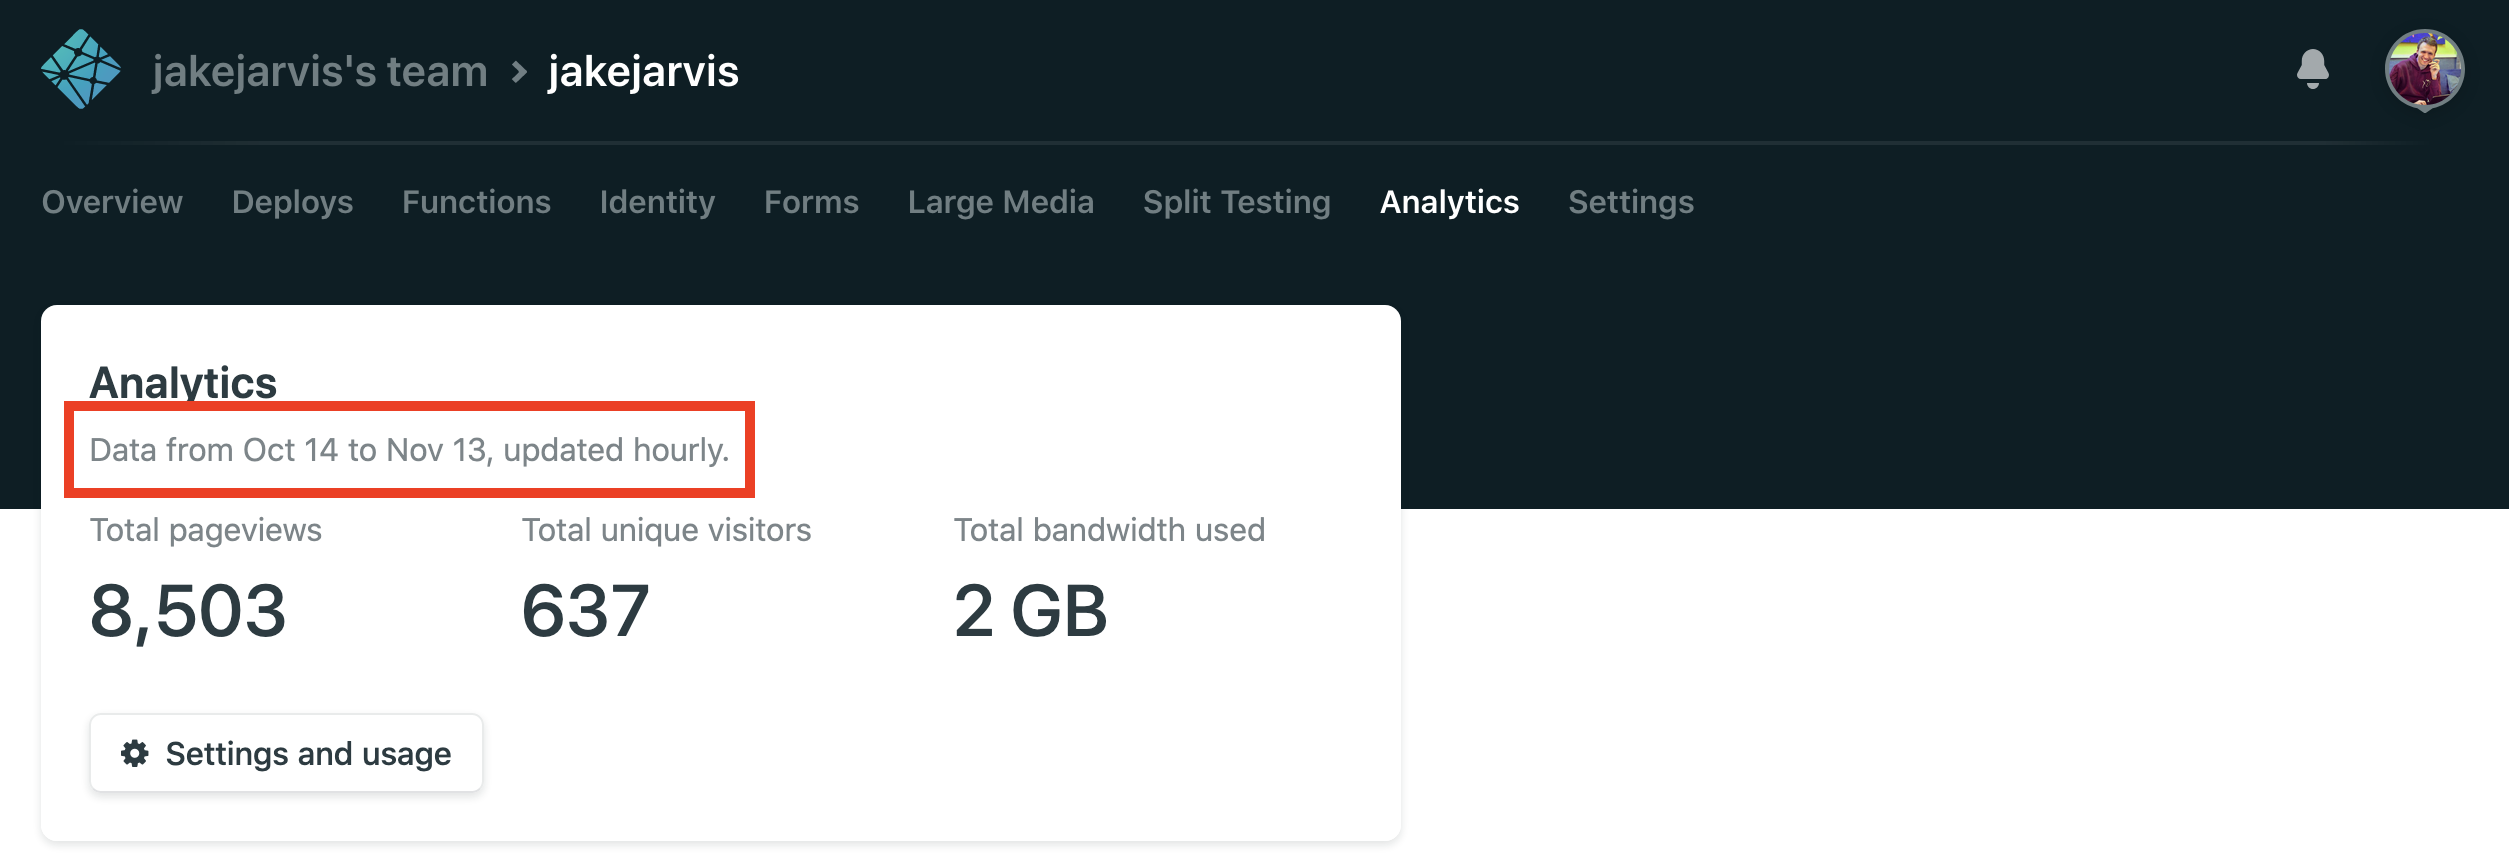
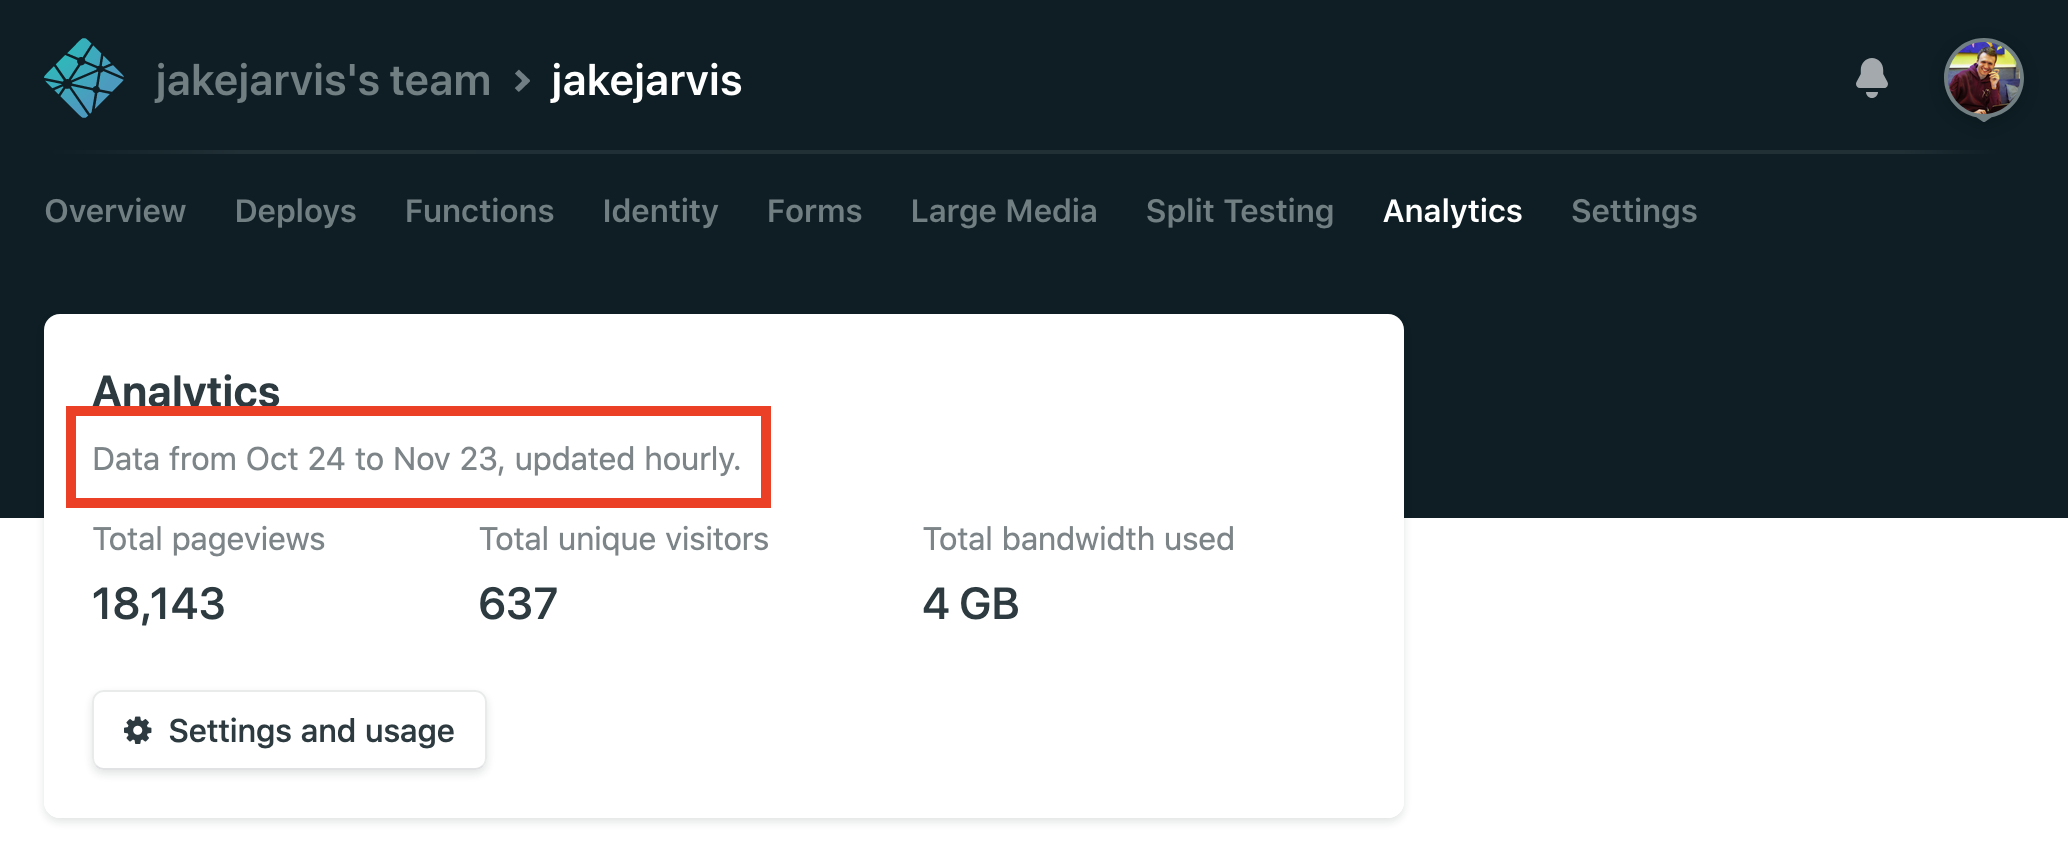
update Netlify Analytics post

diff --git a/content/notes/netlify-analytics-review/index.md b/content/notes/netlify-analytics-review/index.md
@@ -9,12 +9,12 @@ tags:
 - Netlify
 - Privacy
 - JAMStack
-image: "pageviews.png"
+image: "overview.png"
 draft: false
 ---
 
 
-I've been trying out [Netlify Analytics](https://www.netlify.com/products/analytics/) on this site for about ten days now (non-consecutively) and have some quick thoughts about this unique offering in a world full of bloated and invasive tracking scripts.
+I've been trying out [Netlify Analytics](https://www.netlify.com/products/analytics/) on this site for almost a month now (non-consecutively) and have some quick thoughts about this unique offering in a world full of bloated and invasive tracking scripts.
 
 {{< image src="images/pageviews.png" alt="Pageview charts on Netlify Analytics" >}}
 
@@ -74,7 +74,7 @@ It makes sense that Netlify needs to subsidize the cost of providing free enterp
 
 {{< image src="images/sources-bandwidth.png" alt="Referrer and bandwidth tracking on Netlify Analytics" >}}
 
-Clearly, as much as I wish they did, 30,000+ visitors didn't type my website directly into the URL bar in the past week. Some of my articles have been circulating on Hacker News, Reddit, Twitter, etc. — none of which have even made a blip on the dashboard.
+Clearly, as much as I wish they did, 60,000+ visitors didn't type my website directly into the URL bar in the past month. Some of my articles have been circulating on Hacker News, Reddit, Twitter, etc. — none of which have even made a blip on the dashboard.
 
 There are various possible reasons that referrers aren't being sent, mostly relating to HTTP headers and [increasingly sensible](https://blog.mozilla.org/blog/2019/06/04/firefox-now-available-with-enhanced-tracking-protection-by-default/) browser defaults, that aren't Netlify's fault. But this section is the most obvious example of important data you can miss out on by not tracking incoming visitors via JavaScript.
 
